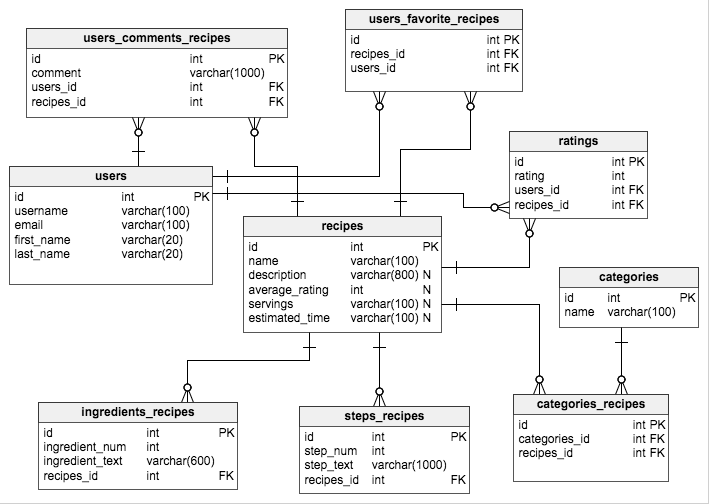
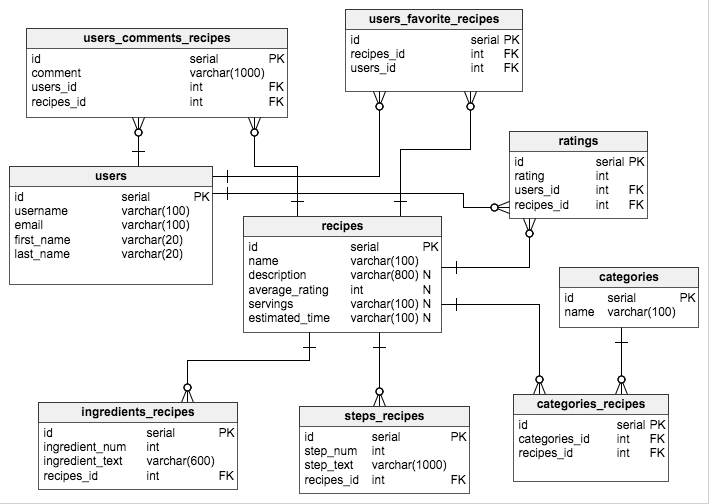
Working on entering recipes into database

diff --git a/server/db/recipes.js b/server/db/recipes.js
@@ -1,0 +1,58 @@
+var recipes = [
+  {
+    name: 'Chicken Cacciatore',
+    servings: '4-6',
+    estimatedTime: '1 hour',
+    categories: ['main course', 'chicken', 'italian'],
+    description: 'In cuisine, alla cacciatora refers to a meal prepared "hunter-style" with onions, herbs, usually tomatoes, often bell peppers, and sometimes wine',
+    ingredients: ['chicken'],
+    steps: []
+  },
+  {
+    name: 'Pasta with Vodka Sauce',
+    servings: '4-6',
+    estimatedTime: '1 hour',
+    categories: ['main course', 'pasta', 'italian', 'vegetarian'],
+    description: 'Vodka sauce is an Italian sauce made from a smooth tomato sauce, vodka, typical Italian herbs and heavy cream, which gives the sauce its distinctive pink coloration',
+    ingredients: ['1/4 cup olive oil', '1 onion', '3 cloves garlic', '1/2 tsp crushed red pepper flakes', '1 1/2 tsp dried oregano', '1 cup vodka', '2 (28 ounce) cans peeled plum tomatoes', 'Kosher salt', 'pepper', '3/4 pound penne pasta', '3/4 - 1 cup heavy cream', 'grated Parmesan cheese'],
+    steps: ['Preheat oven to 375 degrees F.', 'Heat the olive oil in a large oven proof saute pan over medium heat, add the onions and garlic and cook for about 5 minutes until translucent. Add the red pepper flakes and dried oregano and cook for 1 minute more. Add the vodka and continue cooking until the mixture is reduced by half.', 'Meanwhile, drain the tomatoes through a sieve and crush them into the pan with your hands. Add 2 teaspoons salt and a pinch of black pepper. Cover the pan with a tight fitting lid and place it in the oven for 1 1/2 hours. Remove the pan from the oven and let cool for 15 minutes.', 'Meanwhile, bring a large pot of salted water to a boil and cook the pasta al dente. Drain and set aside.', 'Place the tomato mixture in a blender and puree in batches until the sauce is a smooth consistency. Return to the pan.', 'Reheat the sauce, add 2 tablespoons fresh oregano and enough heavy cream to make the sauce a creamy consistency. Add salt and pepper, to taste, and simmer for 10 minutes. Toss the pasta into the sauce and cook for 2 minutes more. Stir in 1/2 cup Parmesan. Serve with an additional sprinkle of Parmesan and a sprinkle of fresh oregano on each plate.']
+  },
+  {
+    name: 'Stone Fruit Bruschetta',
+    servings: '6-10',
+    estimatedTime: '30 minutes',
+    categories: ['appetizer', 'spring', 'fruit', 'vegetarian'],
+    description: 'This appetizer is a when stone fruit are ripe and delicious ',
+    ingredients: ['1 cup balsamic vinegar, 1/2 tablespoon sugar', '1 loaf ciabatta , sliced on a diagnol 1/2 inch thick', 'salt', 'olive oil', 'cream cheese', '2-3 plums', '2-3 peaches', '1 cup cherries', 'chopped mint'],
+    steps: ['In a heavy-bottomed sauce pan, bring Balsamic vinegar to a low boil (about a medium heat) and add the sugar. Whisk constantly to prevent burning, about 15 minutes. This will reduce to about a 1/2 cup of thick syrup. Set Aside', 'Preheat the broiler and position a rack on the top. Drizzle the bread lightly with olive oil and lightly sprinkle with salt. Toast under the broiler until golden brown, cool.', 'Combine the plums, peached, cherries and mint', 'Spread the toasts with cream cheese. Spoon the fruit mixture on top of the toasts. Drizzle the fruit with the balsamic reduction.' ]
+  },
+  {
+    name: 'Chicken Tortilla Soup',
+    servings: '5-8',
+    estimatedTime: '1.5 hours',
+    categories: ['main course', 'soup', 'mexican', 'chicken', 'winter'],
+    description: 'From south of the border comes this spicy and hearty soup ladled under crisp tortilla strips and grated cheese. The soup is chunky with chicken and avocado, but it\'s the tortillas that give it a slight thickness and a special flavor',
+    ingredients: ['chicken (abpit 3/5 lbs)', '3 onions', '6 carrots', '5 celery stalks', ' 1 head garlic, halved', '1 bunch thyme', '3 bay leaves', '1 tbsp peppercorns', 'olive oil', 'salt', 'pepper', '1 red bell pepper', '1 tsp coriander', '1 tsp cumin', '2 tbsp garlic, minced', '2 serrano peppers, minced', '1 (14.5-ounce) can fire roasted diced tomatoes', '1 (14.5-ounce) can black beans, drained and rinsed', '6 corn tortillas, cut into strips', '4 corn on the cobs', '4 limes', 'cilantro, chopped', 'corn tortillas (in a pan over low heat, toast the tortillas, turning frequently until crispy, then break into chunks)', '1 avocado sliced', 'shredded Monterey Jack cheese'],
+    steps: ['To make the chicken broth, place the chicken in a large stockpot. Season with salt. Add enough cold water to cover chicken, about 3 quarts. Add 2 onions, 2 carrots, 2 celery stalks, garlic head, thyme, bay leaves, and peppercorns. Bring to a boil over medium-high heat. Once at a boil, lower heat to medium-low and gently simmer for 1 to 1 ½ hours until chicken is cooked, partially covered. Remove chicken to cutting board and wait until cool enough to handle. You may begin making the soup at this time while the chicken cools. Discard the skin and shred the meat into a container and refrigerate until needed. Carefully strain the stock through a sieve into another pot or large bowl and discard the vegetable solids.', 'To make the soup, begin by heating about 3 tablespoons of olive oil in a large soup pot over medium heat. Dice and add 1 onion, bell pepper, carrots, and celery to the pot and season with salt and pepper. Cook until they start to soften, about 7 minutes.', 'Add the coriander, cumin, garlic, and peppers. Stir and continue to cook for a few minutes. Add the tomatoes, beans, corn tortillas and chicken broth. Bring to a boil over medium-high heat. When at a boil, reduce heat to medium-low and simmer for about 25 minutes. Place the corn on the cob in the soup after reducing heat. Simmer in the soup for about five minutes and then using tongs transfer to cutting board. When cool enough to handle, cut the kernels off of the cob.', 'After the soup has been simmering for 25 minutes add the corn kernels, cilantro, juice of the limes, and chicken. Ladle the soup into bowls. Top with tortilla chunks, avocado, and cheese.']
+  },
+  {
+    name: 'Farro Salad',
+    servings: '6',
+    estimatedTime: '1 hour',
+    categories: ['side', 'salad', 'vegetarian', 'healthy', 'summer'],
+    description: 'hearty and healthy summer salad that is great for a potuck or to keep in your refrigerator',
+    ingredients: ['4 cups water', '1 ½ cups farro', '1 red onion, diced', '1 red bell pepper, cut into thin strips', '1 cucumber, diced', '1 pint cherry tomatoes, halved 5 ounces arugula', '¼ cup extra virgin olive oil', '¼ cup red wine vinegar', '1 teaspoon Dijon mustard', 'salt & pepper'],
+    steps: ['Combine water and farro in a medium pot. Bring to a boil. Cover pot, lower heat to medium low and simmer for 20 minutes. Add 1 ½ teaspoons of salt and continue to cook for 10 more minutes. Drain farro and cool completely.', 'Combine onion, bell pepper, cucumber and cherry tomatoes in a large salad bowl, season with salt and pepper. Add cooled farro. Toss to combine.', 'In a small bowl, add olive oil, vinegar, mustard. Season with salt and pepper and emulsify with a fork.','Pour vinegar over the salad and toss to combine. Add arugula, and toss until incorporated.', 'Refrigerate salad for a few hours. Take salad out of the refrigerator 15 minutes before serving.']
+  },
+  {
+    name: 'Moroccan Couscous',
+    servings: '6',
+    estimatedTime: '1 hour',
+    categories: ['side', 'vegetarian', 'nuts'],
+    description: 'Couscous is a North African dish of small steamed balls of semolina. Can be served with a stew spooned on top or as a delicious side dish.',
+    ingredients: ['salt & pepper', '3 tablespoons butter', '2 large shallots, diced', '3 cups chicken broth', '1 1/2 cups couscous', '1/2 cup pine nuts, toasted', '1/2 cup currants'],
+    steps: ['Combine water and farro in a medium pot. Bring to a boil. Cover pot, lower heat to medium low and simmer for 20 minutes. Add 1 ½ teaspoons of salt and continue to cook for 10 more minutes. Drain farro and cool completely.', 'Combine onion, bell pepper, cucumber and cherry tomatoes in a large salad bowl, season with salt and pepper. Add cooled farro. Toss to combine.', 'In a small bowl, add olive oil, vinegar, mustard. Season with salt and pepper and emulsify with a fork.','Pour vinegar over the salad and toss to combine. Add arugula, and toss until incorporated.', 'Refrigerate salad for a few hours. Take salad out of the refrigerator 15 minutes before serving.']
+  },
+];
+
+module.exports = recipes;

diff --git a/server/db/addRecipes.js b/server/db/addRecipes.js
@@ -1,44 +1,14 @@
 var db = require('./database.js').db;
-var recipes = [
-  {
-    name: 'Chicken Cacciatore',
-    servings: '4-6',
-    estimatedTime: '1 hour',
-    categories: ['main course', 'chicken', 'italian'],
-    description: 'In cuisine, alla cacciatora refers to a meal prepared "hunter-style" with onions, herbs, usually tomatoes, often bell peppers, and sometimes wine',
-    ingredients: ['chicken'],
-    steps: []
-  },
-  {
-    name: 'Chicken Tortilla Soup',
-    servings: '5-8',
-    estimatedTime: '1 hour',
-    categories: ['main course', 'soup', 'mexican', 'chicken'],
-    description: 'From south of the border comes this spicy and hearty soup ladled over crisp tortilla strips and grated cheese. The soup is chunky with chicken and avocado, but it\'s the tortillas that give it a slight thickness and a special flavor',
-    ingredients: [],
-    steps: []
-  },
-  {
-    name: 'Pasta with Vodka Sauce',
-    servings: '4-6',
-    estimatedTime: '1 hour',
-    categories: ['main course', 'pasta', 'italian', 'vegetarian'],
-    description: 'Vodka sauce is an Italian sauce made from a smooth tomato sauce, vodka, typical Italian herbs and heavy cream, which gives the sauce its distinctive pink coloration',
-    ingredients: ['1/4 cup olive oil', '1 onion', '3 cloves garlic', '1/2 tsp crushed red pepper flakes', '1 1/2 tsp dried oregano', '1 cup vodka', '2 (28 ounce) cans peeled plum tomatoes', 'Kosher salt', 'pepper', '3/4 pound penne pasta', '3/4 - 1 cup heavy cream', 'grated Parmesan cheese'],
-    steps: ['Preheat oven to 375 degrees F.', 'Heat the olive oil in a large oven proof saute pan over medium heat, add the onions and garlic and cook for about 5 minutes until translucent. Add the red pepper flakes and dried oregano and cook for 1 minute more. Add the vodka and continue cooking until the mixture is reduced by half.', 'Meanwhile, drain the tomatoes through a sieve and crush them into the pan with your hands. Add 2 teaspoons salt and a pinch of black pepper. Cover the pan with a tight fitting lid and place it in the oven for 1 1/2 hours. Remove the pan from the oven and let cool for 15 minutes.', 'Meanwhile, bring a large pot of salted water to a boil and cook the pasta al dente. Drain and set aside.', 'Place the tomato mixture in a blender and puree in batches until the sauce is a smooth consistency. Return to the pan.', 'Reheat the sauce, add 2 tablespoons fresh oregano and enough heavy cream to make the sauce a creamy consistency. Add salt and pepper, to taste, and simmer for 10 minutes. Toss the pasta into the sauce and cook for 2 minutes more. Stir in 1/2 cup Parmesan. Serve with an additional sprinkle of Parmesan and a sprinkle of fresh oregano on each plate.']
-  }
-]
+var recipes = require('./recipes.js');
 
-recipes.forEach((recipe, ind) => {
-  var uniqueInd = (ind + 1) * 100;
-  db.oneOrNone('INSERT into $1~($2~, $3~, $4~, $5~) VALUES($6, $7, $8, $9) ' +
-  'ON CONFLICT DO NOTHING returning id', ['recipes', 'id', 'name', 'servings', 'description', uniqueInd, recipe.name, recipe.servings, recipe.description])
+recipes.forEach((recipe) => {
+  db.oneOrNone('INSERT into $1~($2~, $3~, $4~, $5~) VALUES(default, $6, $7, $8) ' +
+  'ON CONFLICT DO NOTHING returning id', ['recipes', 'id', 'name', 'servings', 'description', recipe.name, recipe.servings, recipe.description])
   .then((data) => {
     var res = [];
     if (data) {
-      recipe.ingredients.forEach((ingredient, ind2) => {
-        var uniqueInd2 = (ind2 + 2) * data.id;
-        db.oneOrNone('INSERT into $1~($2~, $3~, $4~, $5~) VALUES($6, $7, $8, $9) ON CONFLICT DO NOTHING', ['ingredients_recipes', 'id', 'ingredient_num', 'ingredient_text', 'recipes_id', uniqueInd2, ind2, ingredient, data.id])
+      recipe.ingredients.forEach((ingredient) => {
+        db.oneOrNone('INSERT into $1~($2~, $3~, $4~, $5~) VALUES(default, $6, $7, $8) ON CONFLICT DO NOTHING', ['ingredients_recipes', 'id', 'ingredient_num', 'ingredient_text', 'recipes_id', ind2, ingredient, data.id])
         .then(() => {
           console.log('Success in ingredients_recipes');
         })
@@ -70,9 +40,11 @@ recipes.forEach((recipe, ind) => {
     if (id) {
       recipe.categories.forEach((cat, ind4) => {
         var uniqueInd4 = (ind4 + 4) * id;
-        db.oneOrNone('INSERT into $1~($2~, $3~) VALUES($4, $5) ON CONFLICT DO NOTHING', ['categories', 'id', 'name', uniqueInd4, cat])
-        .then(() => {
-          console.log('Success in categories');
+        console.log('CAT', cat);
+        console.log('UNIQUE ID', uniqueInd4);
+        db.oneOrNone('INSERT into $1~($2~, $3~) VALUES(default, $4) ON CONFLICT DO NOTHING', ['categories', 'id', 'name', cat])
+        .then((id) => {
+          console.log('Success in categories', id);
         })
         .catch((error) => {
           console.error('Error in categories', error);
